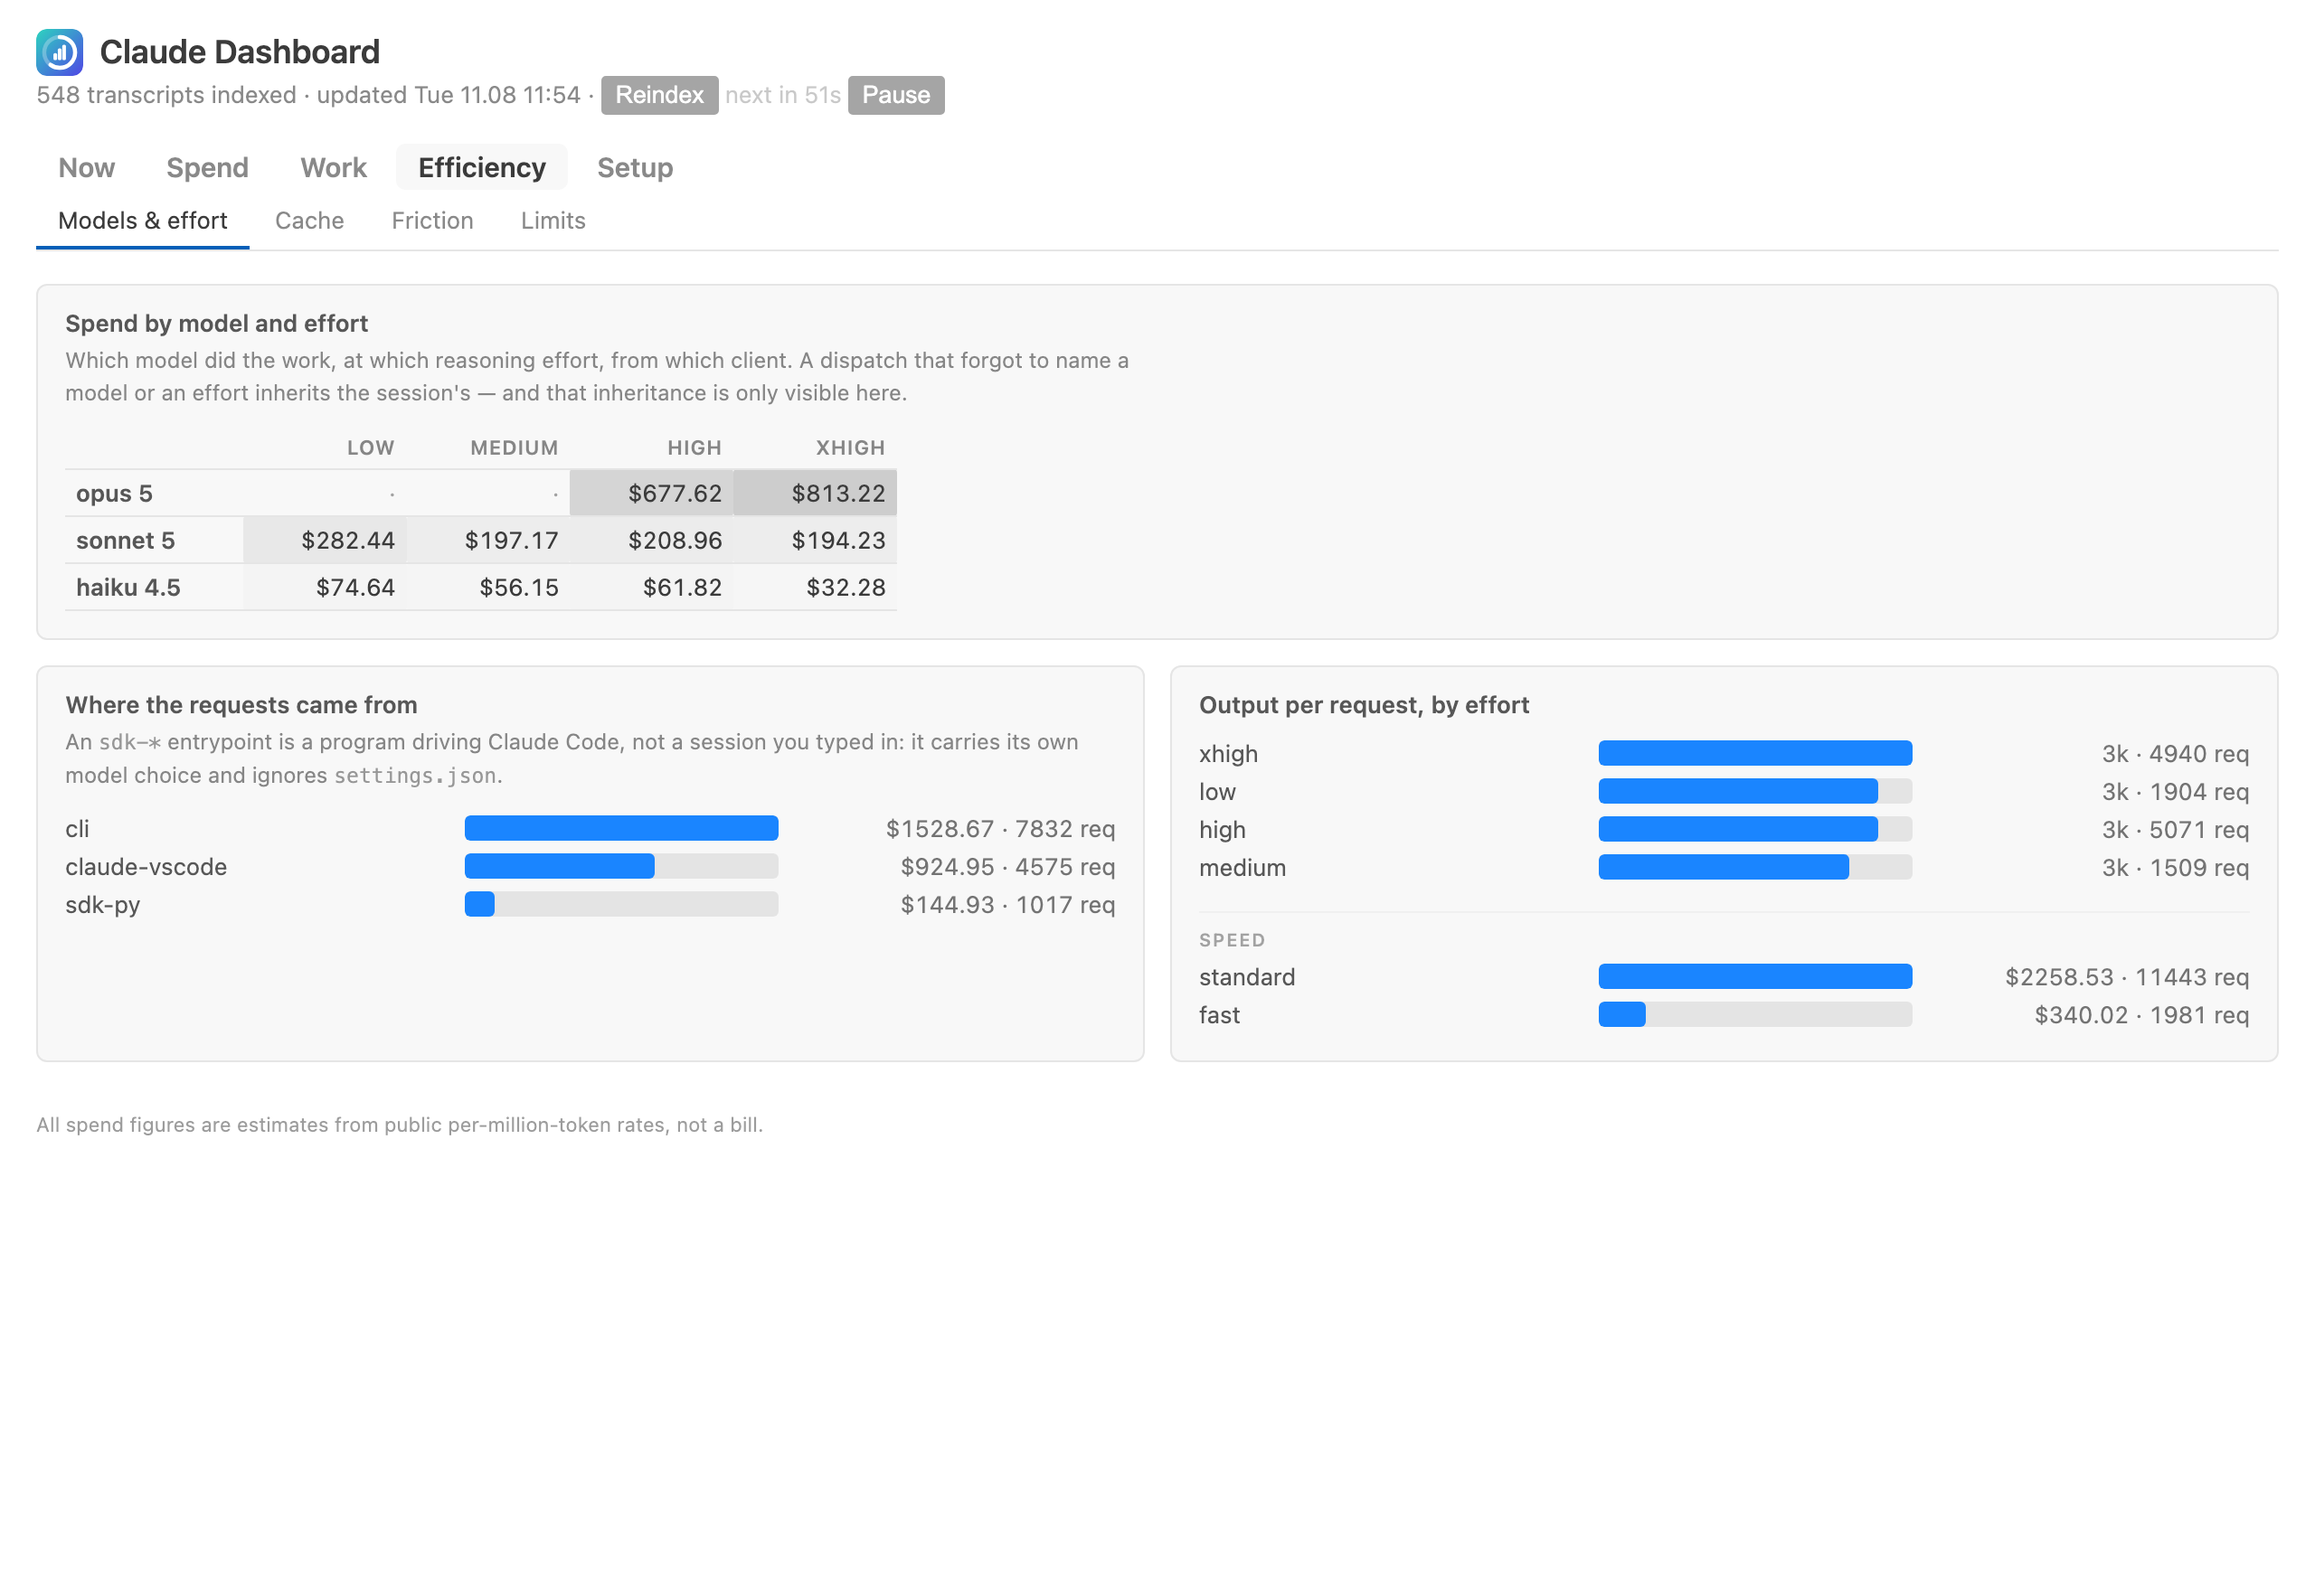
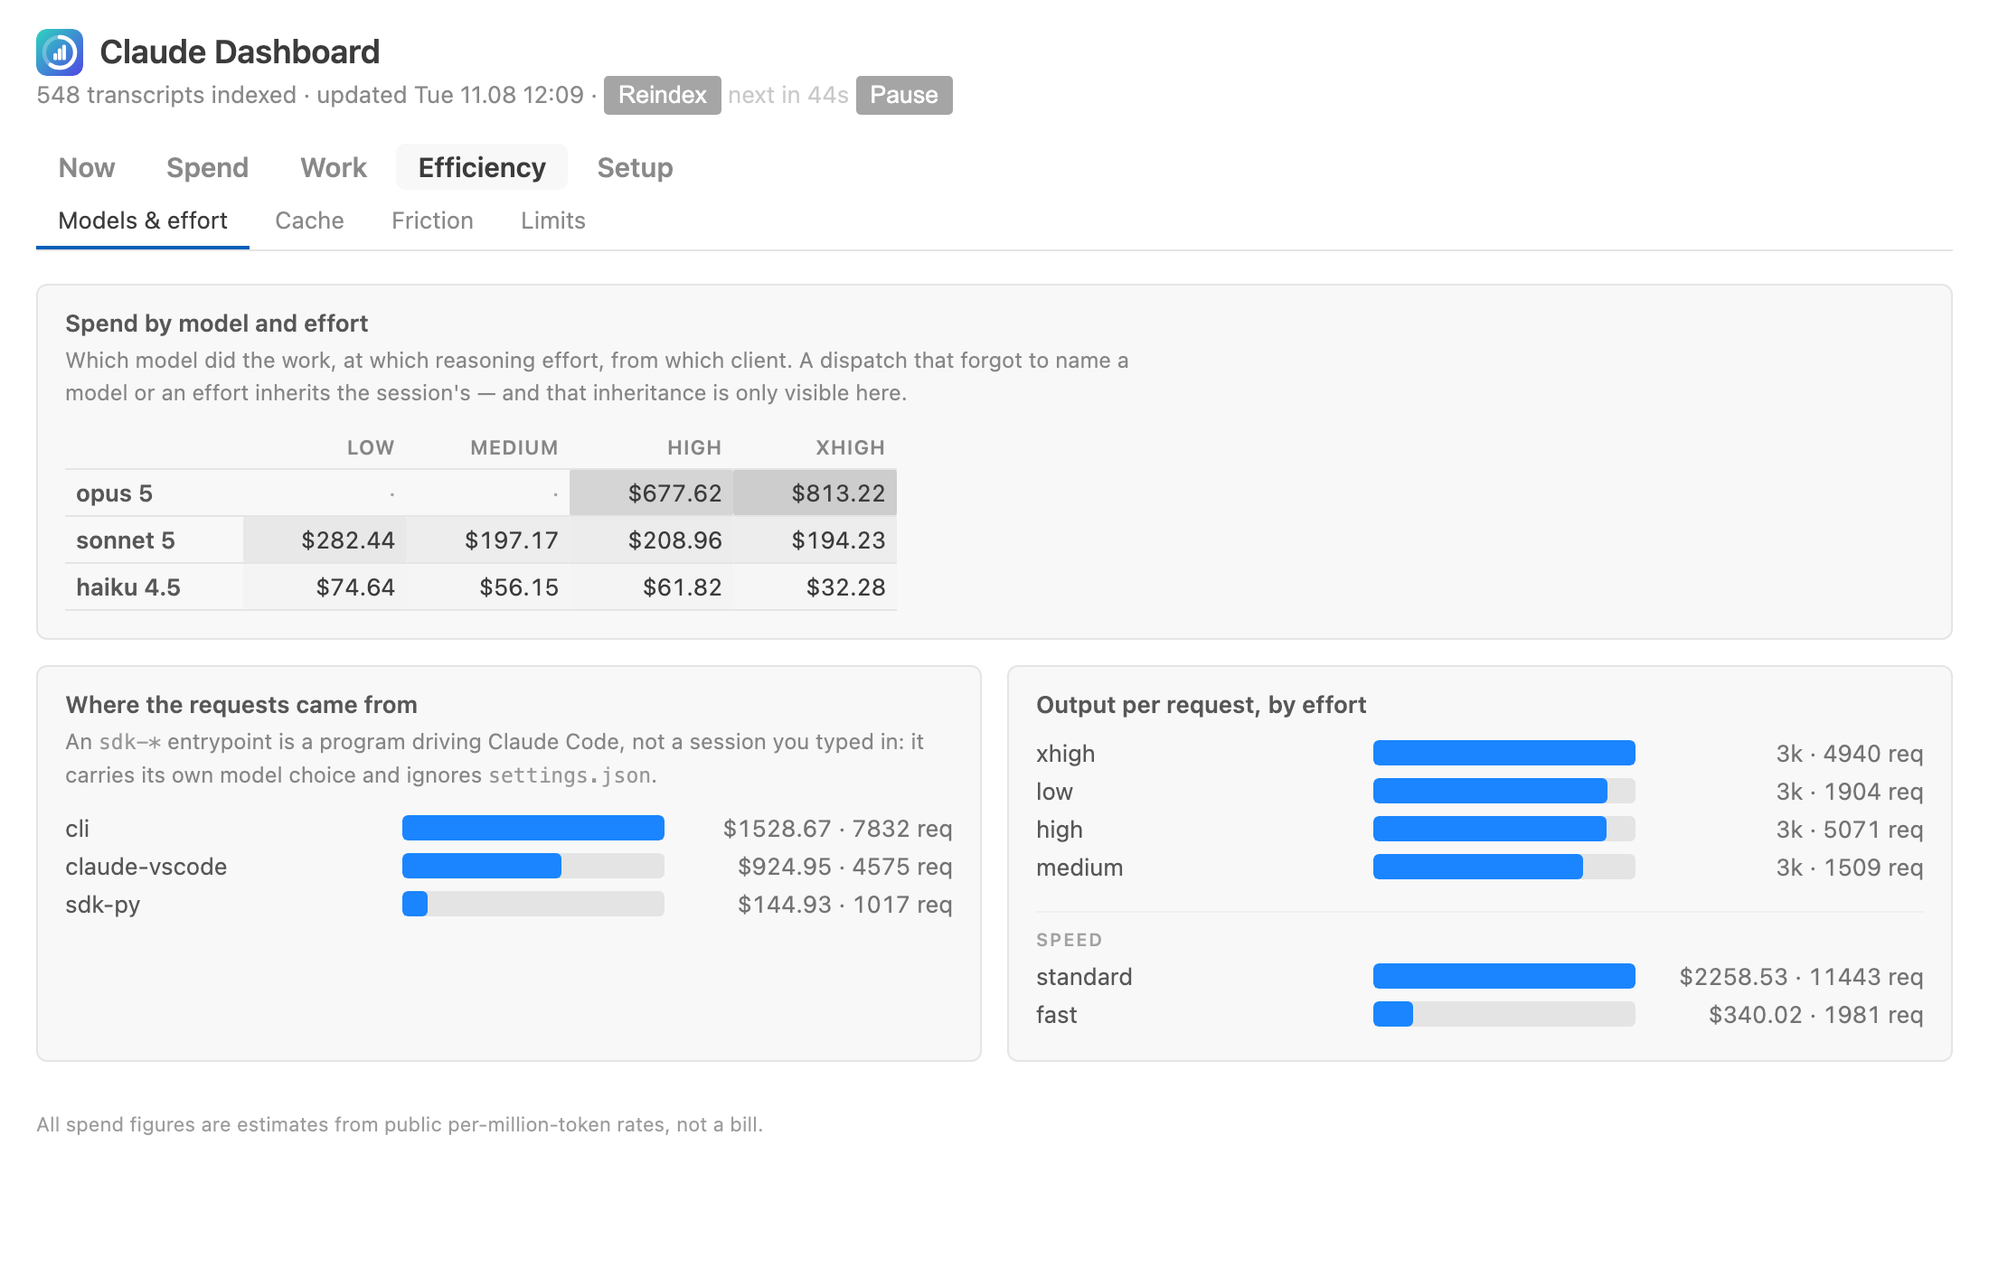
fix(tools): shoot each tab at its own height, not at a fixed one
A screenshot taken at a fixed 1280×880 padded the short tabs with dead space —
Models & effort ended in a third of a screen of empty background — and squeezed
the wide ones into type nobody reads on a marketplace card.

The harness now publishes each tab's rendered height into document.title, where
--dump-dom can read it before the screenshot is taken: measure, then shoot at
1100 wide and exactly that tall, capped at 1500 so a long tab does not become a
tower on the listing page. Text comes out visibly larger because the same page
is rendered into a narrower viewport.

Re-shot all ten. Checked after: no personal string in any rendered page, no text
chunk in any PNG.

Claude-Session: https://claude.ai/code/session_01XjAraSXvKcVMWcGNwY1U5h

diff --git a/tools/preview.js b/tools/preview.js
@@ -167,6 +167,10 @@ const wrap = (open, extra = '') => page
     .replace('</body>', (open ? `<script>addEventListener('load',()=>{
         document.querySelector('nav.sections [data-section="${open.section}"]').click();
         document.querySelector('nav.tabs [data-tab="${open.tab}"]').click();
+        // The height of this tab, published where --dump-dom can read it: a
+        // screenshot taken at a fixed height pads short tabs with dead space,
+        // and dead space on a listing image reads as an empty product.
+        document.title = 'H' + Math.ceil(document.body.getBoundingClientRect().height);
       });</script>` : '') + extra + '</body>');
 
 fs.writeFileSync(out, wrap(null));
